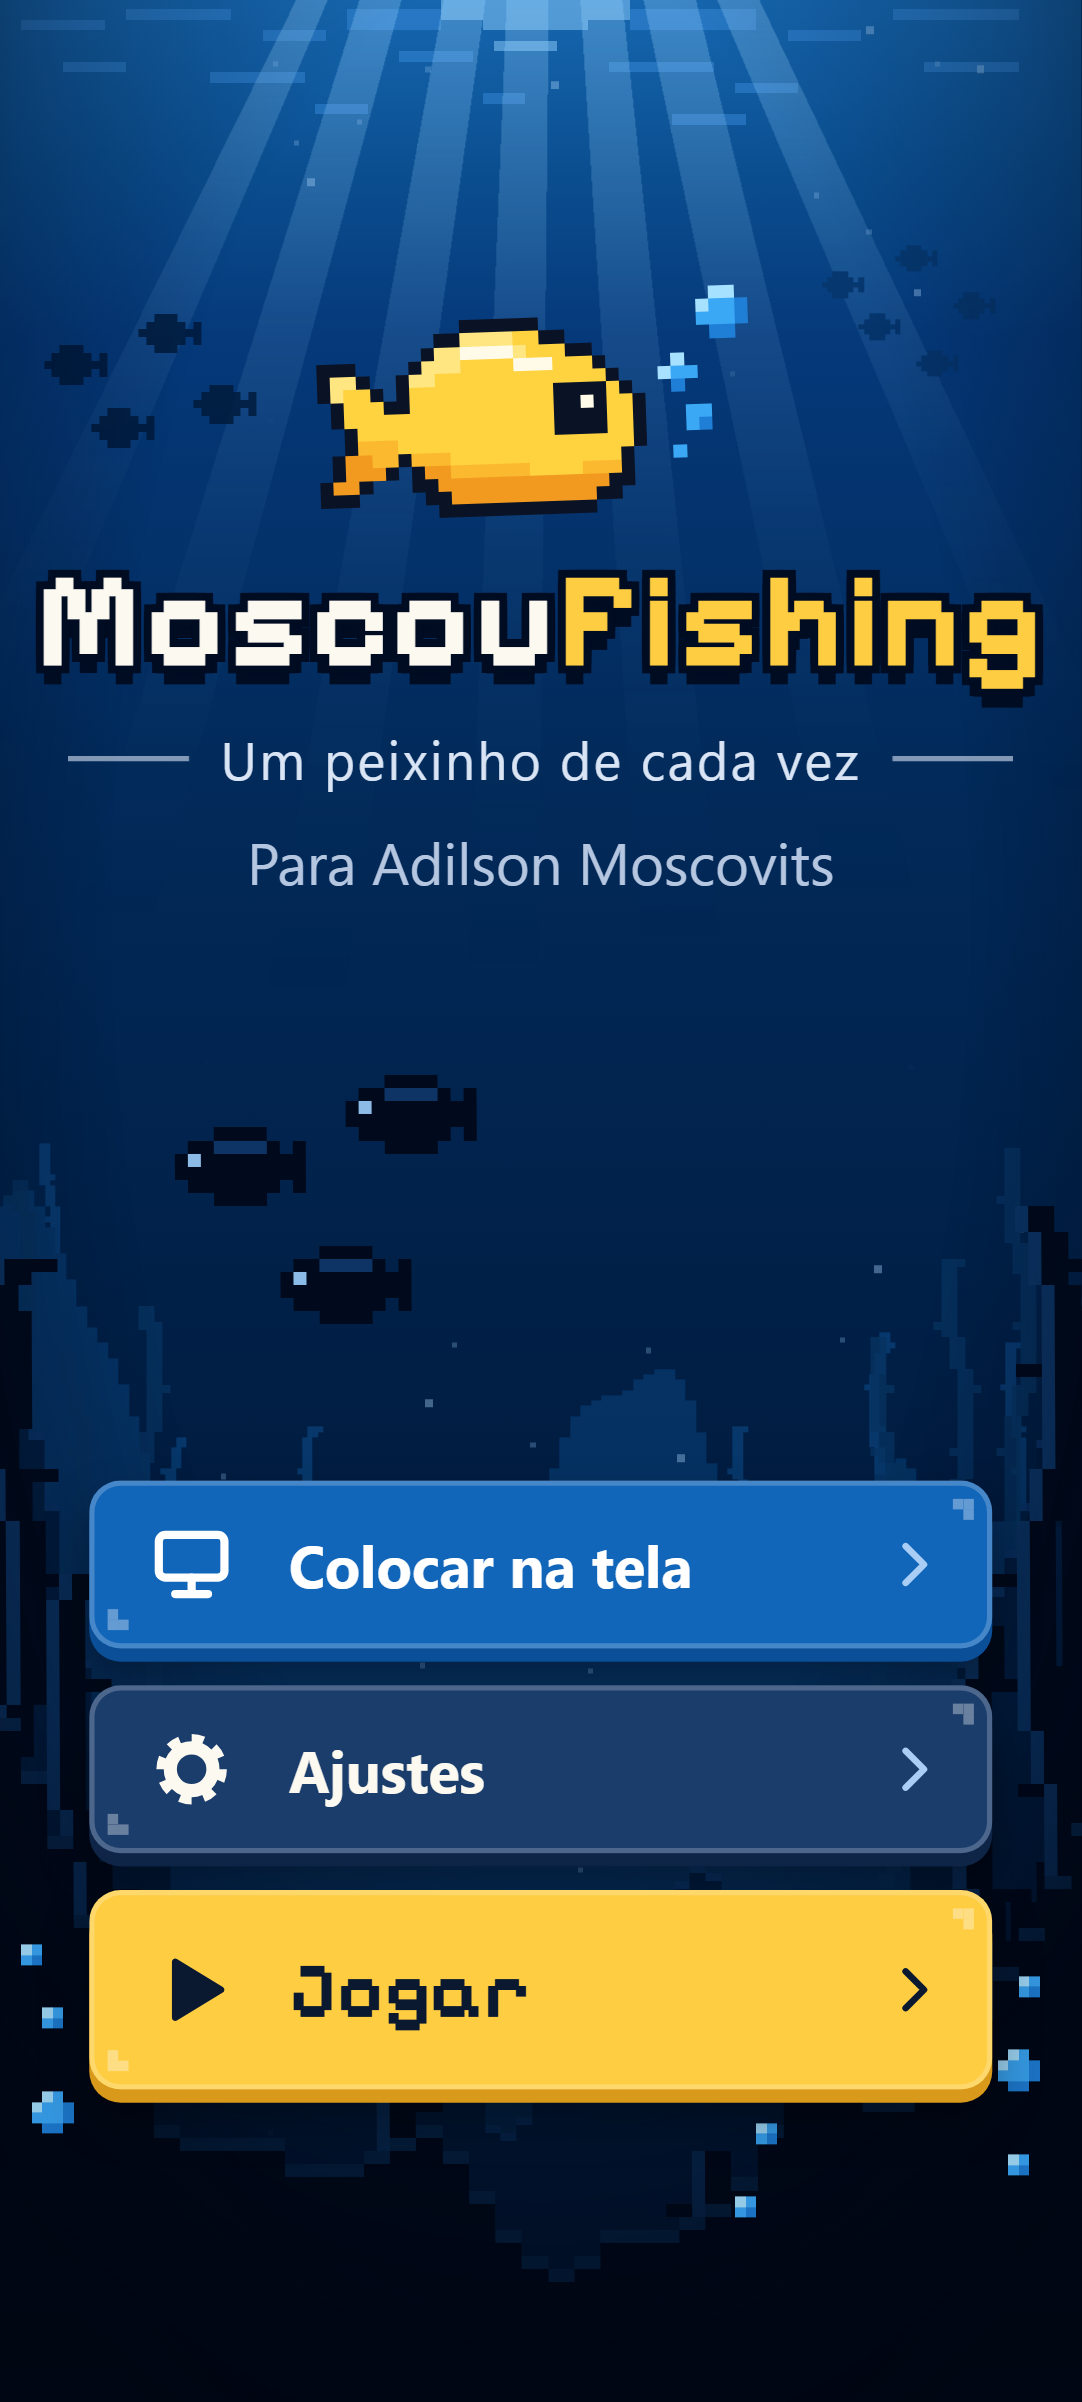
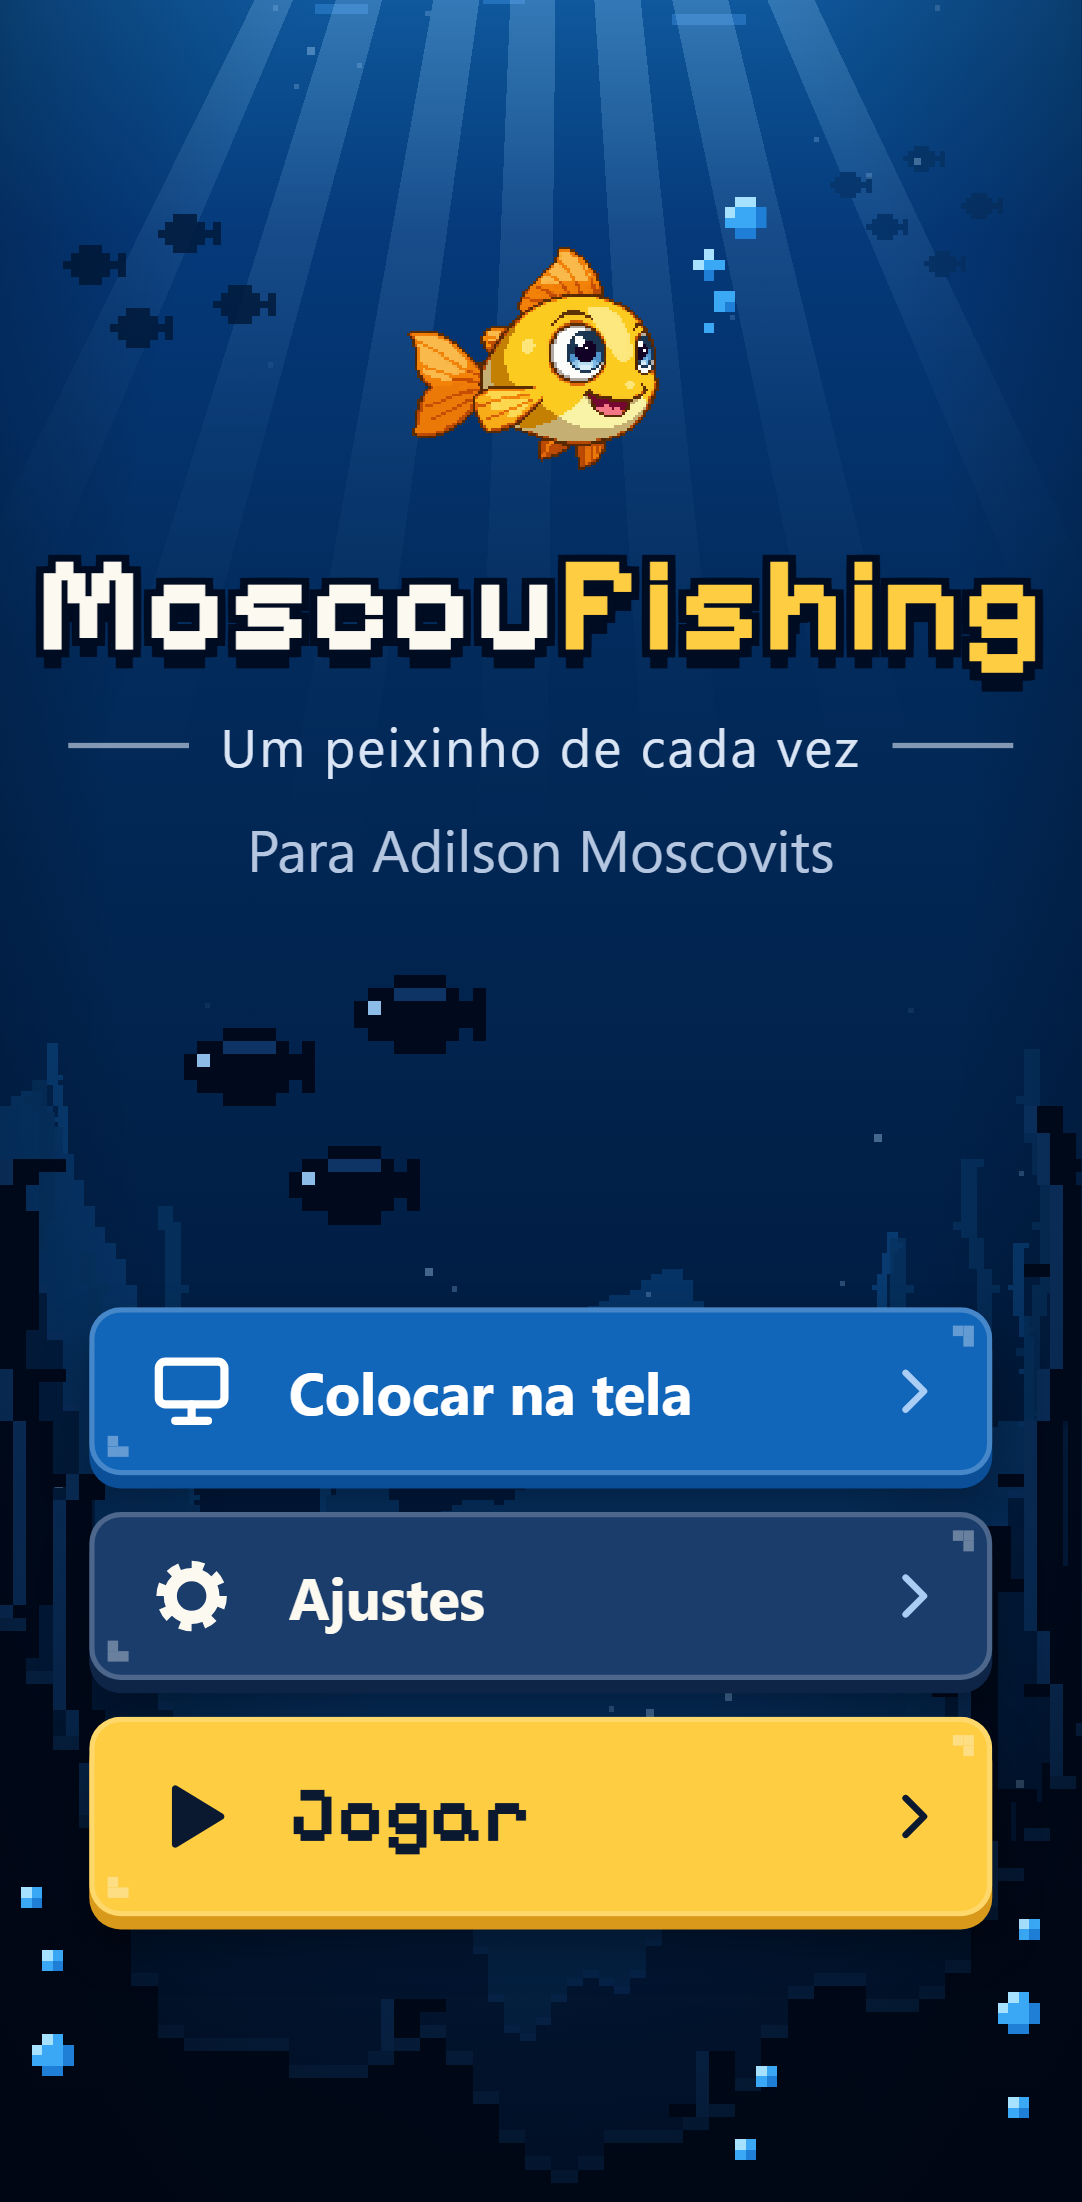
feat(ui): troca o peixe da tela inicial
O peixinho fofo aprovado pelo usuário entra no lugar do peixe em SVG, em
escala 1 e pixelado, com as bolhas do peixe antigo e a mesma animação de
nadar. Print do Pixel 7 atualizado.

diff --git a/src/ui/TitleArt.tsx b/src/ui/TitleArt.tsx
@@ -1,7 +1,8 @@
-// Desenhos da tela inicial, em SVG e sem arquivos de imagem (mockup e logo do usuário em docs/arte/mockups):
-// o fundo do mar em pixel art, o peixe amarelo do logo e os ícones dos botões.
+// Desenhos da tela inicial (mockup e logo do usuário em docs/arte/mockups): o fundo do mar em pixel art
+// e os ícones dos botões, em SVG; o peixinho fofo do logo, na arte aprovada pelo usuário (T81).
 
 import type { ComponentChildren, VNode } from 'preact';
+import { resolveAsset } from '../render/sprites';
 
 type Rect = [x: number, y: number, w: number, h: number];
 
@@ -22,43 +23,46 @@ export function Pixels({ rows, colors }: { rows: string[]; colors: Record<string
 
 // ---------- Peixe do logo ----------
 
-const FISH = [
-  '..............................LL..',
-  '.............................LbbB.',
-  '...........kkkkkk............bbbB.',
-  '.........kkhhhhyykk...........BB..',
-  '........khhwwwwhyyykk.............',
-  'kkk....khhhyyyywwwyyyk.....L......',
-  'khhk..khhyyyyyyyyyyyyyk...Lbb.....',
-  'khyyk.kyyyyyyyyyyykkkkyk...B......',
-  '.kyyykkyyyyyyyyyyykkwkyyk.........',
-  '.kyyyyyyyyyyyyyyyykkkkyyk...bb....',
-  '..kyyyyyyyyyyyyyyykkkkyyk...bB....',
-  '..kOOOyyyyyyyyyyyyyyyyyyk.........',
-  '.kooOOkOOOyyyyyyyyyyyyyk...b......',
-  '.koook.kooOOOOOOyyyyOOOk..........',
-  'kook...kkoooooooooooookk..........',
-  'kkk.....kkoooooooooookk...........',
-  '.........kkkkkkkkkkkk.............',
+/** Arte aprovada pelo usuário (arte-previa/peixe/fofo.png), 128 × 112. */
+const FOFO = 'src/assets/ui/peixe-fofo.png';
+
+// As bolhas do peixe antigo, subindo da boca do peixinho (7 × 13 pixels de 4 px).
+const LOGO_BUBBLES = [
+  '....LL.',
+  '...LbbB',
+  '...bbbB',
+  '....BB.',
+  '.......',
+  '.L.....',
+  'Lbb....',
+  '.B.....',
+  '.......',
+  '..bb...',
+  '..bB...',
+  '.......',
+  '.b.....',
 ];
 
-const FISH_COLORS = {
-  k: '#0a1226', // contorno e olho
-  y: '#ffd23f',
-  h: '#ffe680', // brilho no alto do corpo
-  w: '#fffbe8',
-  O: '#fbb92f', // sombra da barriga e do rabo
-  o: '#f29a1f',
-  b: '#3aa8f5', // bolhas
+const BUBBLE_COLORS = {
+  b: '#3aa8f5',
   L: '#a6e1ff',
   B: '#1f7fd6',
 };
 
+/** O peixinho fofo em escala 1 (pixels nítidos, `image-rendering: pixelated`), nadando com as bolhas. */
 export function LogoFish() {
+  const url = resolveAsset(FOFO);
   return (
-    <svg class="logo-fish" viewBox={`0 0 ${FISH[0].length} ${FISH.length}`} shape-rendering="crispEdges" aria-hidden="true">
-      <Pixels rows={FISH} colors={FISH_COLORS} />
-    </svg>
+    <div class="logo-fish" aria-hidden="true">
+      {url && <img class="logo-fish__art" src={url} width={128} height={112} alt="" />}
+      <svg
+        class="logo-fish__bubbles"
+        viewBox={`0 0 ${LOGO_BUBBLES[0].length} ${LOGO_BUBBLES.length}`}
+        shape-rendering="crispEdges"
+      >
+        <Pixels rows={LOGO_BUBBLES} colors={BUBBLE_COLORS} />
+      </svg>
+    </div>
   );
 }
 // ---------- Fundo do mar ----------
@@ -339,7 +343,7 @@ export function TitleScene() {
       <svg class="title-scene__bubbles" viewBox={`0 0 ${W} 60`} shape-rendering="crispEdges">
         {BUBBLES.map(([x, y, sprite]) => (
           <g key={`${x},${y}`} transform={`translate(${x} ${y})`}>
-            <Pixels rows={sprite} colors={FISH_COLORS} />
+            <Pixels rows={sprite} colors={BUBBLE_COLORS} />
           </g>
         ))}
       </svg>

diff --git a/e2e/title.spec.ts b/e2e/title.spec.ts
@@ -365,3 +365,40 @@ async function worstContrast(page: Page, target: Locator, animations: 'disabled'
     [shot.toString('base64'), color] as const,
   );
 }
+
+// T81: o peixe da tela inicial é a arte aprovada pelo usuário (src/assets/ui/peixe-fofo.png, 128 × 112).
+
+/** Print do Pixel 7: em docs/arte/mockups com SAVE_SHOTS=1, senão na saída do teste. */
+const shotPath = (name: string) => (process.env.SAVE_SHOTS ? `docs/arte/mockups/${name}` : test.info().outputPath(name));
+
+test('T81: o peixe da tela inicial é o peixinho fofo, em escala inteira e pixelado, nadando e com bolhas', async ({ page }) => {
+  await page.goto('/');
+  const fish = page.locator('.logo-fish');
+  const art = fish.locator('img');
+  await expect(art).toBeVisible();
+  await expect.poll(() => art.evaluate((el: HTMLImageElement) => el.naturalWidth)).toBeGreaterThan(0);
+
+  const img = await art.evaluate((el: HTMLImageElement) => ({
+    src: el.currentSrc,
+    natural: [el.naturalWidth, el.naturalHeight],
+    shown: [el.offsetWidth, el.offsetHeight], // tamanho no layout, sem a inclinação da animação
+    rendering: getComputedStyle(el).imageRendering,
+  }));
+  expect(img.src).toContain('peixe-fofo');
+  expect(img.natural).toEqual([128, 112]);
+  const scale = img.shown[0] / img.natural[0];
+  expect(Number.isInteger(scale) && scale >= 1, `escala ${scale}`).toBe(true);
+  expect(img.shown[1]).toBe(img.natural[1] * scale);
+  expect(img.rendering).toBe('pixelated');
+
+  // A mesma animação de nadar do peixe antigo, com as bolhas subindo ao lado dele.
+  expect(await fish.evaluate((el) => getComputedStyle(el).animationName)).toBe('nadar');
+  await expect(fish.locator('.logo-fish__bubbles')).toBeVisible();
+
+  // O peixe continua em cima do título.
+  const title = (await page.getByRole('heading', { level: 1, name: 'MoscouFishing' }).boundingBox())!;
+  const fishBox = (await fish.boundingBox())!;
+  expect(fishBox.y + fishBox.height).toBeLessThanOrEqual(title.y + 1);
+
+  await page.screenshot({ path: shotPath('tela-inicial-implementada.png'), animations: 'disabled' });
+});

diff --git a/src/ui/theme.css b/src/ui/theme.css
@@ -340,11 +340,27 @@ ul {
   gap: 10px;
 }
 
-/* Peixe do logo: 34 × 17 pixels de 5 px. */
+/* Peixinho fofo do logo (T81): 128 × 112 em escala 1, com as bolhas saindo da boca, à direita. */
 .logo-fish {
-  width: 170px;
-  height: 85px;
+  position: relative;
+  width: 128px;
+  height: 112px;
   animation: nadar 2.4s ease-in-out infinite;
+}
+
+.logo-fish__art {
+  display: block;
+  width: 128px;
+  height: 112px;
+  image-rendering: pixelated;
+}
+
+.logo-fish__bubbles {
+  position: absolute;
+  left: calc(100% - 6px);
+  top: -6px;
+  width: 28px;
+  height: 52px;
 }
 
 /* "Moscou" creme e "Fishing" amarelo, com contorno grosso e sombra embaixo. */

diff --git a/.specs/features/v1-mvp/tasks.md b/.specs/features/v1-mvp/tasks.md
@@ -1579,9 +1579,9 @@ T53 → T54
 
 **Done when**:
 
-- [ ] Os e2e da tela inicial continuam passando sem mudança nas asserções
-- [ ] Print do Pixel 7 atualizado em `docs/arte/mockups/tela-inicial-implementada.png`
-- [ ] Gate check passes: `npm test && npm run test:e2e`
+- [x] Os e2e da tela inicial continuam passando sem mudança nas asserções
+- [x] Print do Pixel 7 atualizado em `docs/arte/mockups/tela-inicial-implementada.png`
+- [x] Gate check passes: `npm test && npm run test:e2e`
 
 **Tests**: e2e
 **Gate**: full
